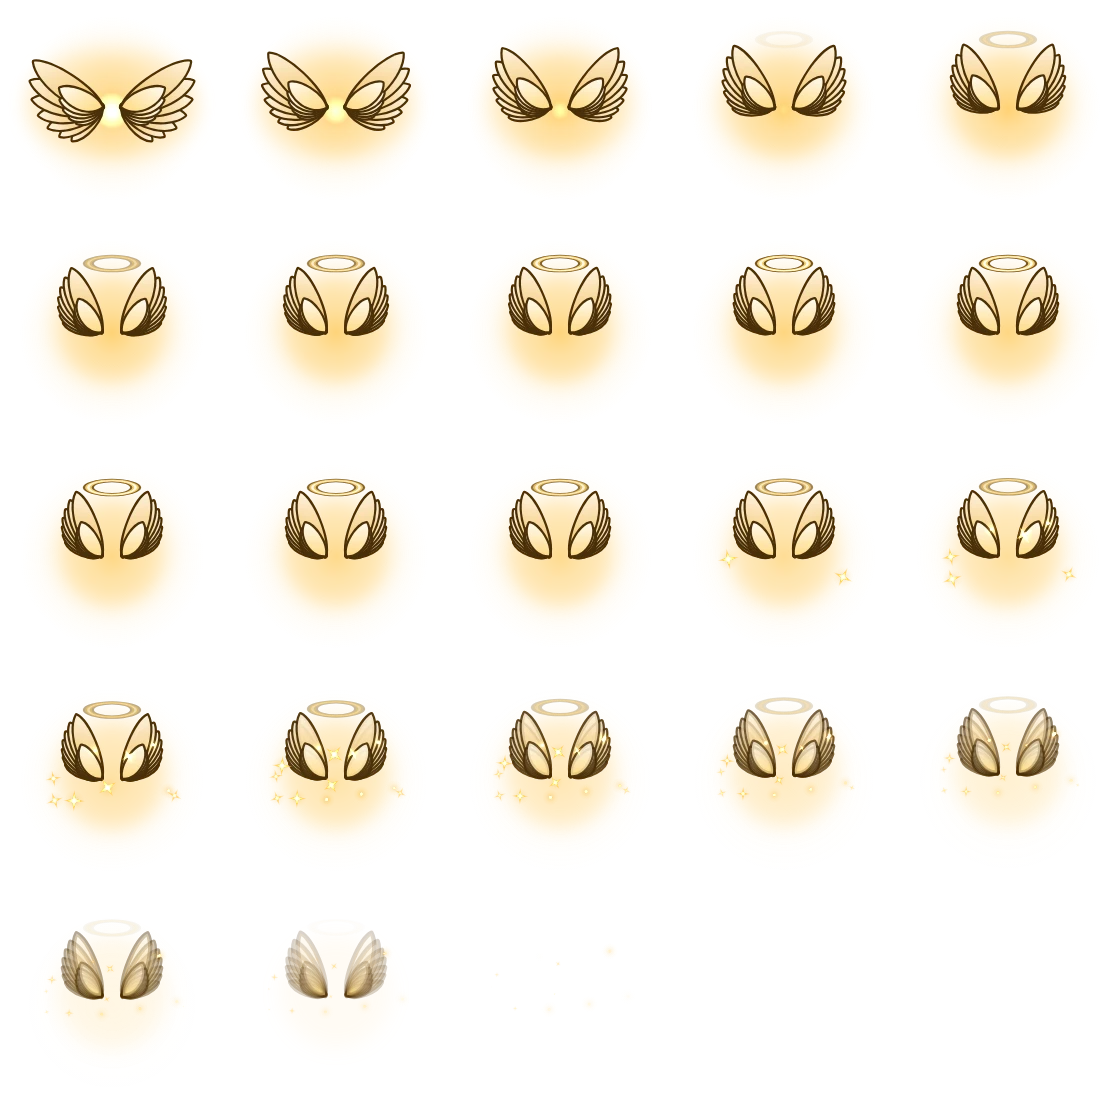
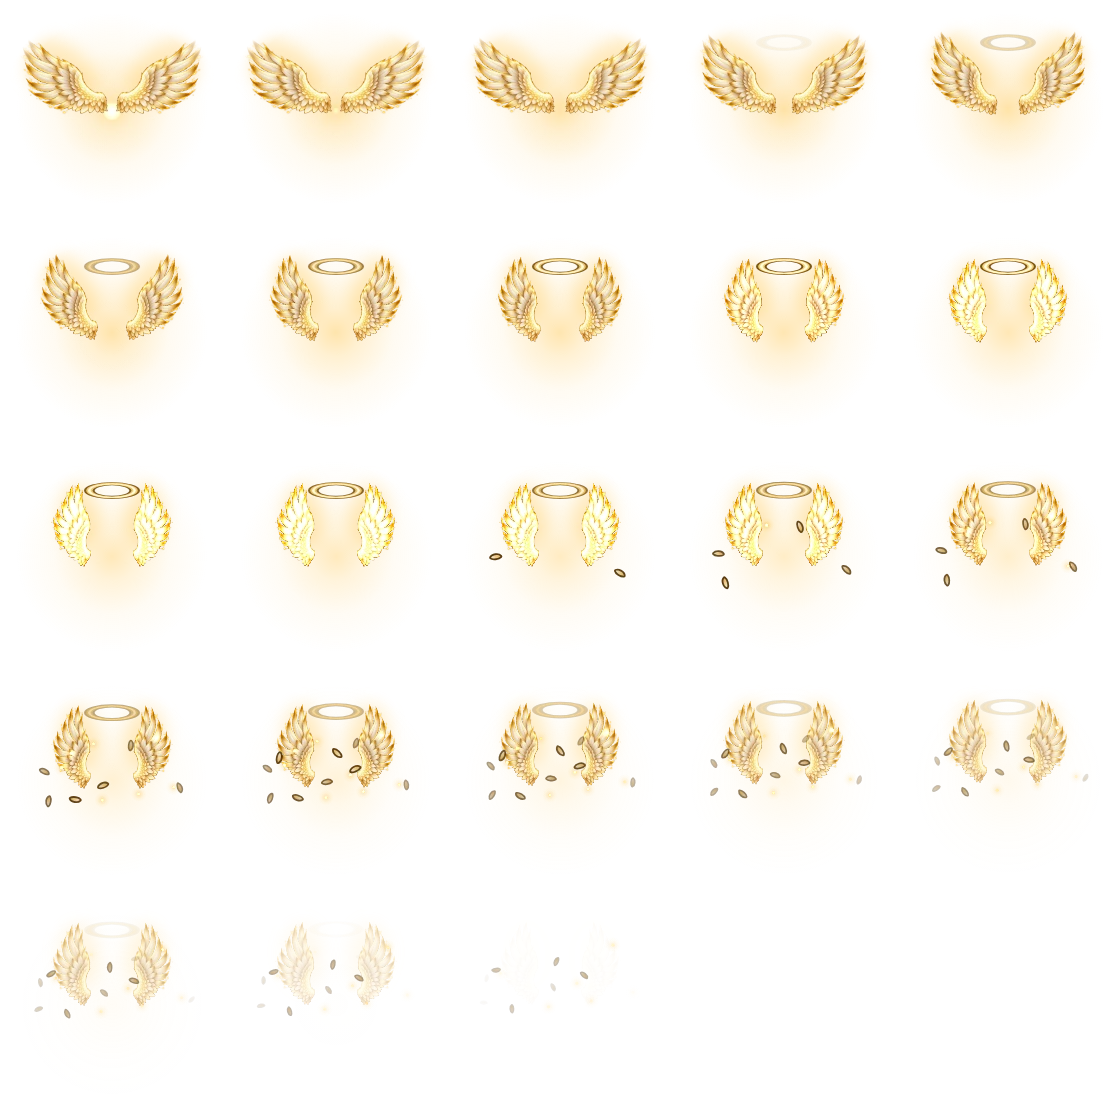
사제 수호 영혼 날개를 Codex 깃털 날개 그림으로: 깃털 세 겹 · 깃대 · 금빛 테, 펼쳤다 칸 양옆으로 감싸듯 접힘
Lim 2026-10-17 「사제의 수호 이펙트가 날개 디테일을 올려줘」.
- 날개 그림 1장을 Codex CLI $imagegen으로 그림 (오른쪽 날개, 작은 덮깃 · 둘째깃 · 긴 첫째깃, 깃대 · 금빛 테 · 빛가루, 58 2-7 금지 문장):
  scripts/vfx/assets/guardian-wing.webp (512px), 원본 · 프롬프트는 맥 기획 폴더 리소스/generated-ui-20261017-originals/
- 굽기 도구가 scripts/vfx/assets 그림을 읽어 두고 그리기 함수가 asset(이름)으로 씀 (없으면 예전 도형 깃털)
- priest-guardian: 양 어깨에서 크게 펼쳤다가 칸 양옆으로 곧게 서며 감쌈 (가운데 이름 · 체력은 비움), 빛이 깃털을 한 번 훑고 후광과 함께 위로 걷히며 빛 깃털로 흩어짐. 지름 94 → 98

diff --git a/src/battle/pxf.ts b/src/battle/pxf.ts
@@ -60,7 +60,7 @@ export const PXF = {
   'priest-renew': skill(24, 84),
   'priest-poh': skill(20, 74),
   'priest-purify': skill(18, 86),
-  'priest-guardian': skill(24, 94),
+  'priest-guardian': skill(24, 98),
   'priest-hymn': skill(20, 70),
   'priest-serenity': skill(24, 100),
   'priest-relay': skill(20, 92),

diff --git a/scripts/vfx/README.md b/scripts/vfx/README.md
@@ -29,6 +29,7 @@ npx vite build && npm run fx:shot -- warder --sheet .sim/vfx-shots/warder.png --
 - `logical`: 기준 칸 62일 때 그림 지름. 한 명 대상 80–100 (칸 밖까지 빛이 번짐), 범위 · 파티 · 칸마다 기록되는 것 70–84.
 - `scope`: `battle/pxf.ts` `SKILL_PXF`의 재생 칸과 같게 (`target` · `area` · `party`).
 - `draw(g, { t, f, n, px })`: 좌표는 **칸 가운데 (0, 0), 1 = 칸 반지름 (육각 꼭짓점), 위 = −y**. `t` 0–1 진행, `px` = 프레임 1px. 칸 글자는 아이콘 y ≈ −0.4, 이름 ≈ 0.13, 체력 ≈ 0.62라 가운데를 오래 덮지 말 것. 가장자리 14%는 자동으로 둥글게 지워짐.
+- 손그림 그림 쓰기: 도형으로 모자란 디테일 (깃털 날개 등)은 Codex CLI로 그린 그림을 `scripts/vfx/assets/<이름>.webp` (512px 안팎)에 두고 `asset('<이름>')`로 `g.drawImage` (굽기가 읽어 둠, 없으면 null → 도형으로 대신). 원본 · 프롬프트는 `나혼자힐러/리소스/generated-ui-<날짜>-originals/`, `생성기록.csv` · `65`에 적음. 예: 사제 수호 영혼 날개 `guardian-wing`.
 - 도구 (`lib.mjs`): `glow` · `glowOval` (빛 번짐) · `glint` (네 갈래 반짝임) · `speck` (빛가루) · `comet` (꼬리 빛) · `lightStroke` (테 → 몸 → 흰 심 획) · `solid` (굵은 어두운 테 물체) · `energy` (빛 덩어리) · `bloom` (흐린 빛) · `leafAt` · `path.*` (별 · 잎 · 꽃잎 · 물방울 · 초승달 · 마름모 · 다각형) · `particles` (시드 고정 입자) · `E` (가속 곡선) · `seg` · `bell`.
 
 ## 게임에 걸기

diff --git a/src/art/pxf/requests.md b/src/art/pxf/requests.md
@@ -57,7 +57,7 @@ Lim 「직업별 스킬별로 이펙트가 달라야 하는데 중복되는 게 
 | priest-renew | 감아 오르는 이중 나선 | druid-bloom | 피는 분홍 꽃 한 송이 |
 | priest-poh | 퍼지는 금빛 고리 (스킬 중 고리는 이것만) | druid-wildflower | 바닥에 피는 들꽃 줄 |
 | priest-purify | 떨어진 물방울의 왕관 물보라 | druid-cleanse | 휘감는 청록 바람 |
-| priest-guardian | 감싸는 금빛 날개 두 장 | druid-bark | 맞물리는 나무판 육각 |
+| priest-guardian | 펼쳤다 감싸듯 접히는 깃털 날개 두 장 (Codex 날개 그림) | druid-bark | 맞물리는 나무판 육각 |
 | priest-hymn | 떠오르는 음표 | druid-quietwood | 떨어지는 잎 + 바닥 안개 |
 | priest-serenity | 터져 소용돌이치며 솟는 금빛 반짝이 가루 폭풍 (치유 강화판) | druid-rebirth | 초록 빛 기둥 + 금빛 씨앗 (기둥은 이것만) |
 |  |  | paladin-holy-light | 위에서 비추는 원뿔 빛 |
